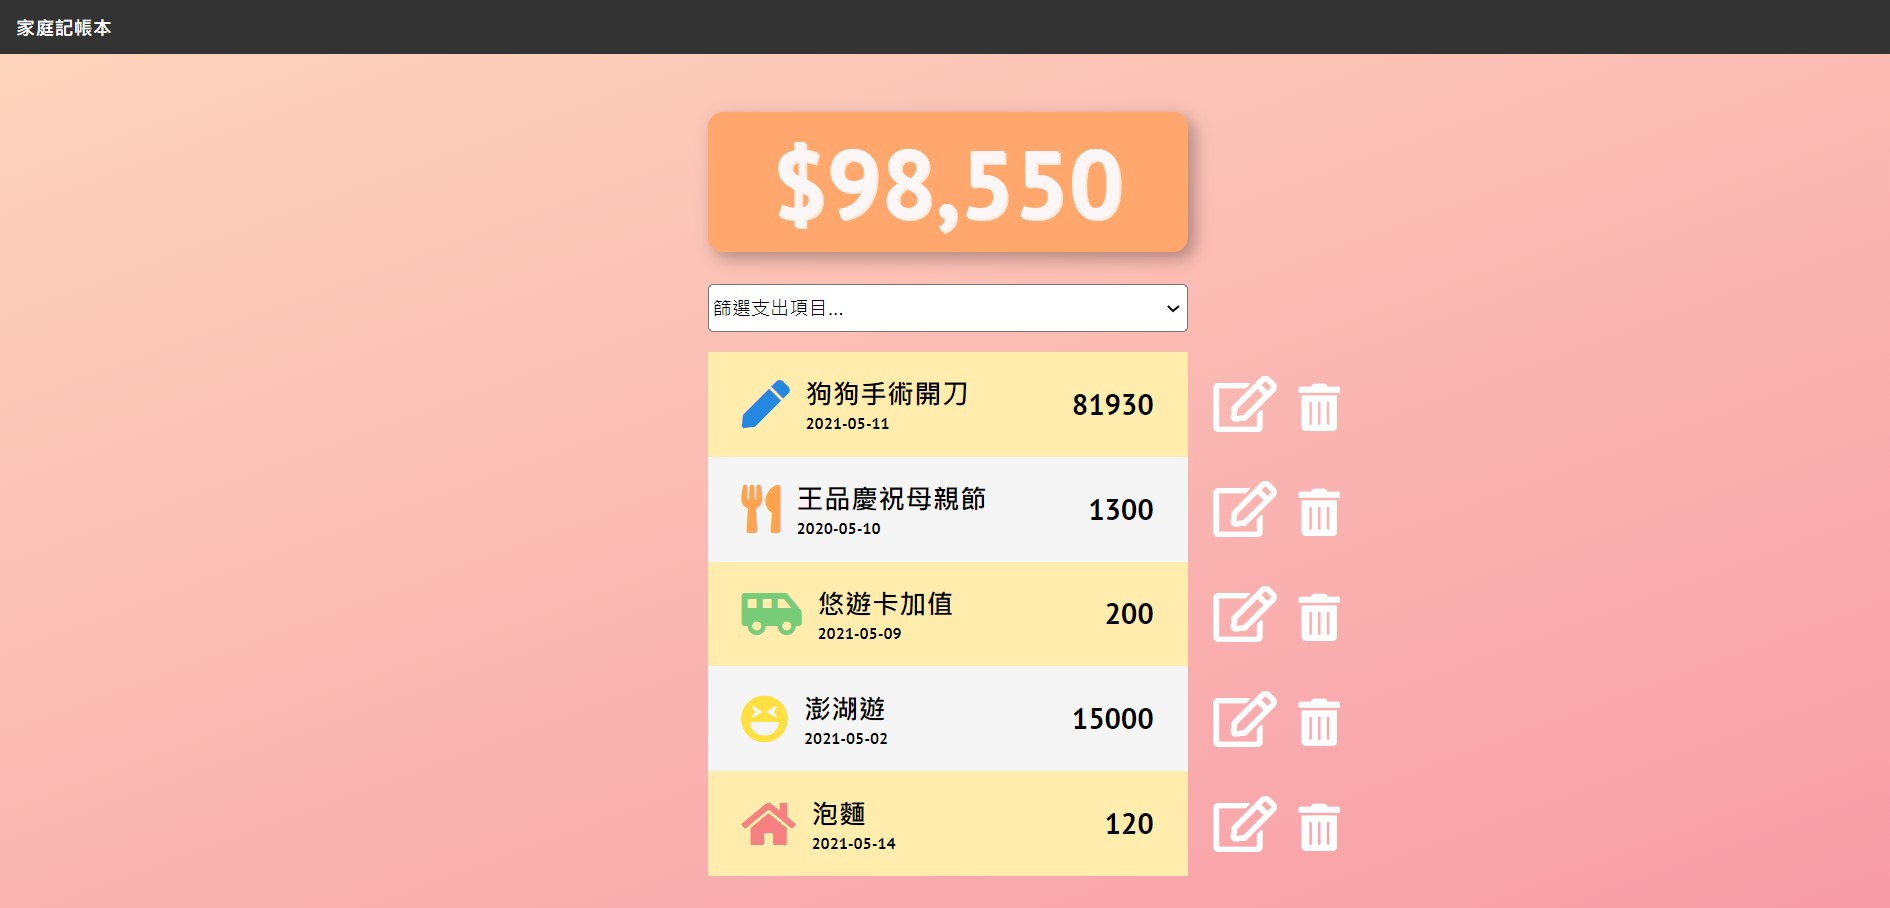
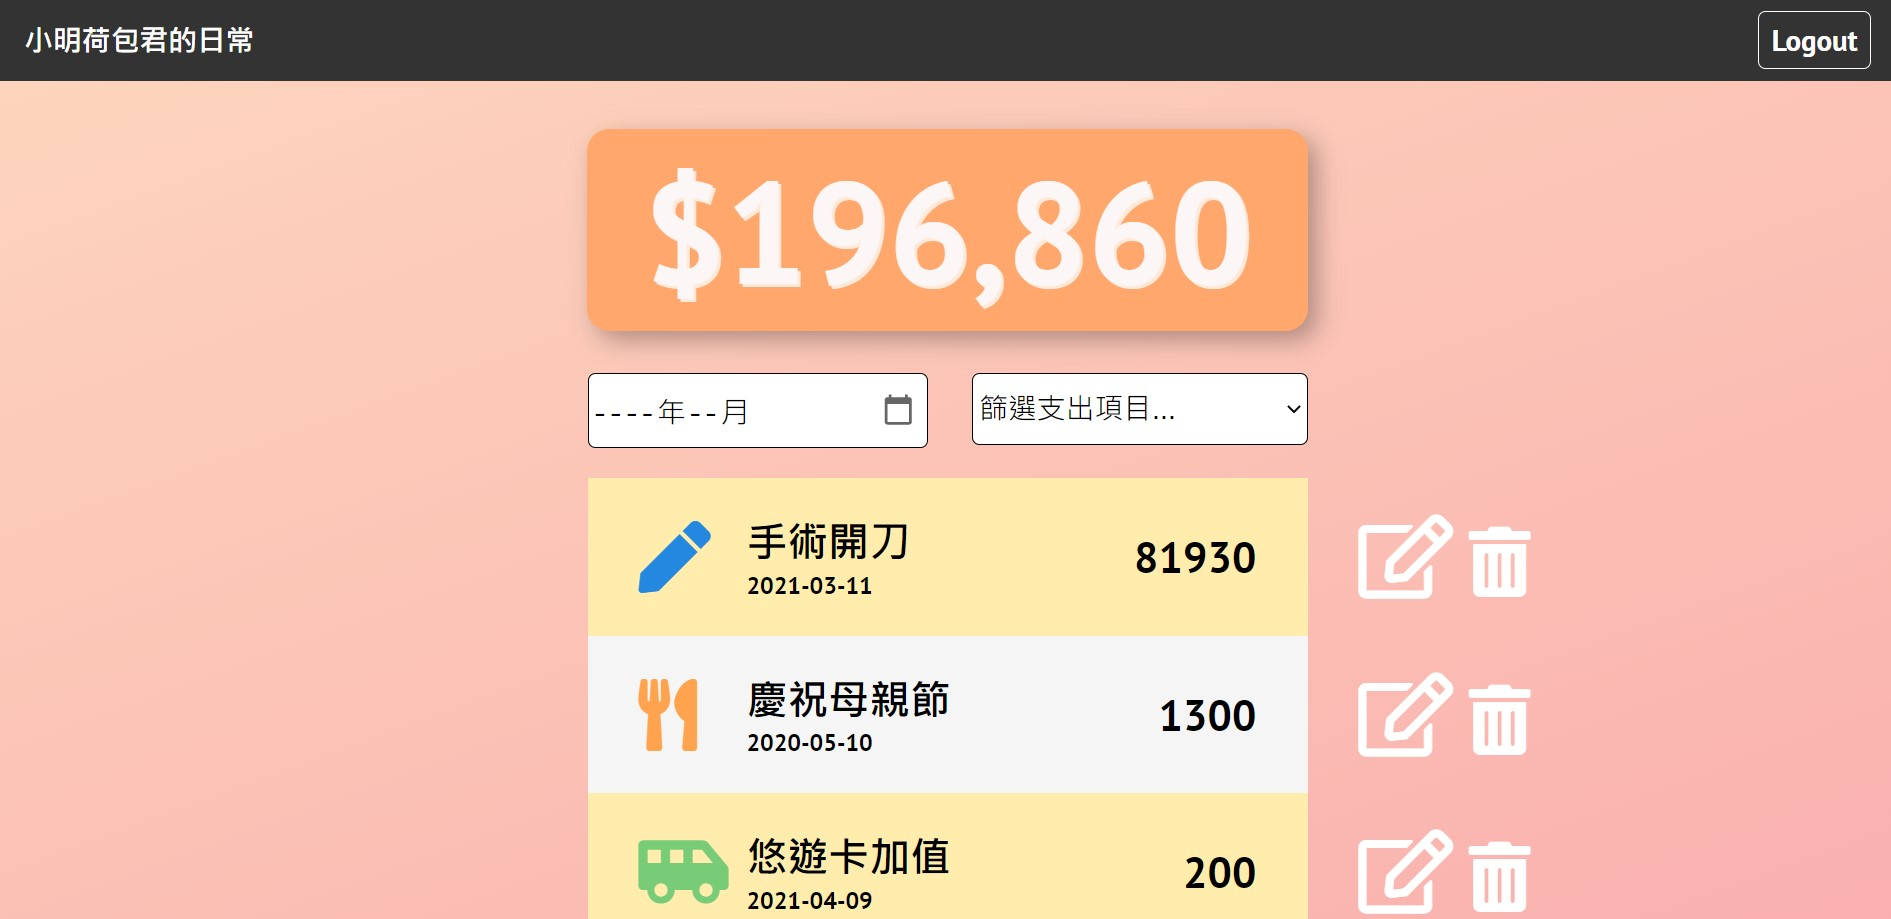
update README

Changed region(s): [[0.3122, 0.1233, 0.8116, 1.0], [0.0, 0.0, 1.0, 0.0925]]

diff --git a/README.md b/README.md
@@ -1,18 +1,24 @@
 # Expense-tracker
 
 An Node.js website that makes you have fun when bookkeeping
+:point_right:[點我體驗網站! Click me ](https://mighty-atoll-44743.herokuapp.com/)
 
 <img alt="homepage" src="https://github.com/debbie8820/expense-tracker/blob/main/img/homepage.jpg">
 
-## 主要功能
+### :fire:新功能
+<img alt="homepage" src="https://github.com/debbie8820/expense-tracker/blob/main/img/login.jpg">
++ 加入使用者認證功能
++ 加入月份篩選功能
++ 加入「商家」欄位到支出明細中
 
-- 瀏覽所有支出記錄
-- 新增單筆支出
-- 刪除單筆支出
-- 編輯單筆支出
-- 點選導覽列的「家庭記帳本」可以返回首頁
+### 主要功能
++ 瀏覽所有支出記錄
++ 新增單筆支出
++ 編輯單筆支出
++ 刪除單筆支出
++ 可根據支出「類別」篩選
 
-## 建置環境
+### 建置環境
 
 - [Node.js](https://nodejs.org/en/)：14.16.1
 - [Express](https://www.npmjs.com/package/express)：4.17.1
@@ -47,7 +53,7 @@ An Node.js website that makes you have fun when bookkeeping
 4. 執行成功後，終端機會顯示下列訊息
 
    ```
-   App is running on port 3000
+   App is running on http://localhost:3000
    Mongodb is connected
    ```
 
@@ -57,7 +63,17 @@ An Node.js website that makes you have fun when bookkeeping
    http://localhost:3000
    ```
 
+6. 種子資料已建構完畢，可使用下列資訊登入：
+   ```
+   姓名：小明
+   信箱: user1@example.com
+   密碼: 12345678
 
+   姓名：小美
+   信箱: user2@example.com
+   密碼: 12345678
+   ```
+   
 ## 開發者
 
 Debbie Chang
